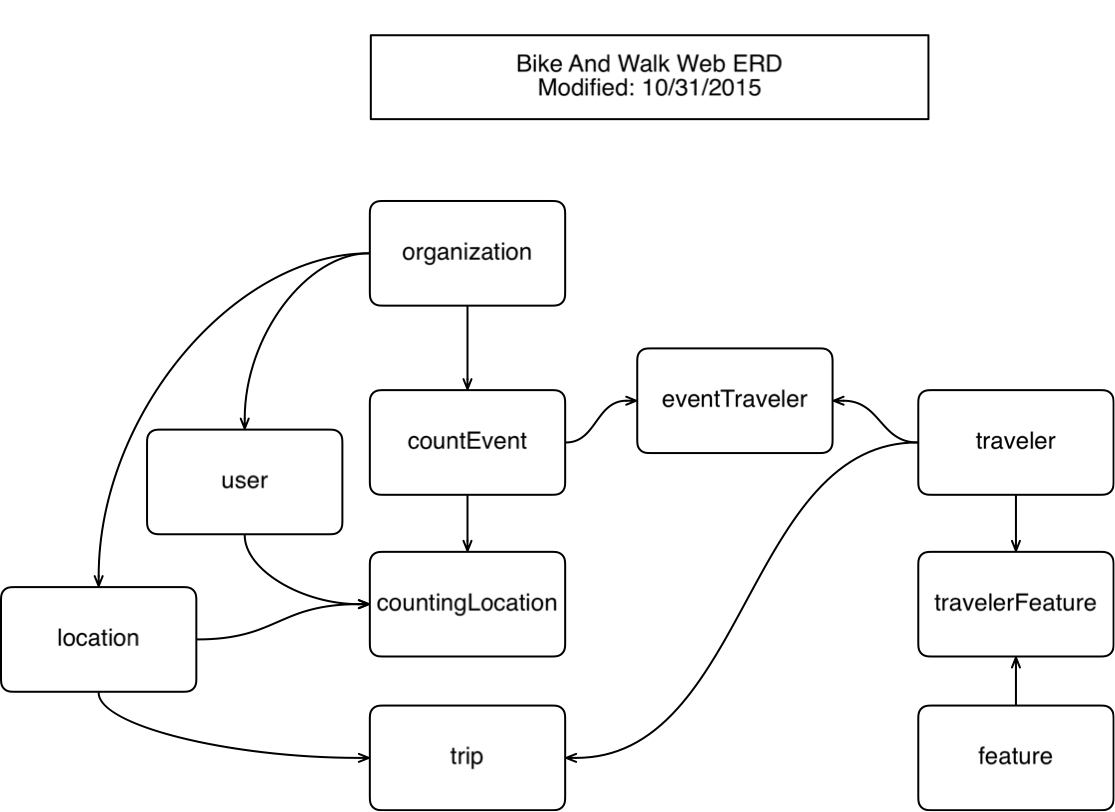
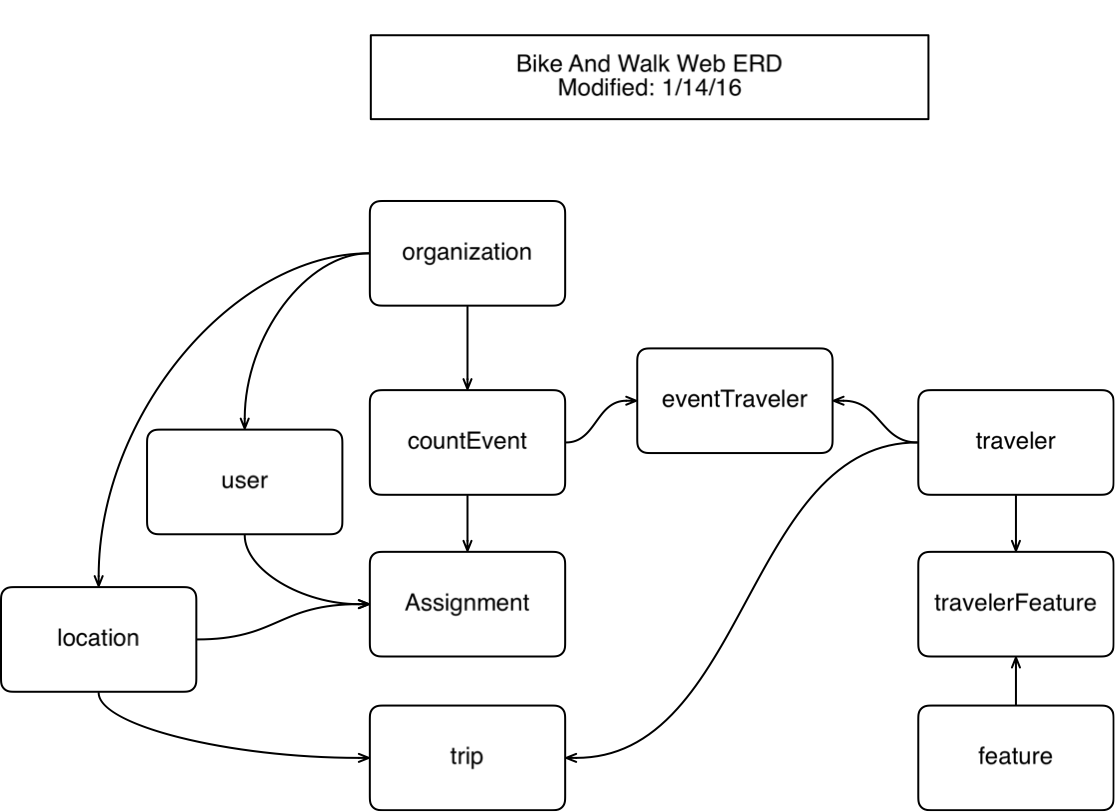
update docs and base.php

Changed region(s): [[0.3354, 0.7081, 0.5184, 0.7697], [0.4879, 0.0924, 0.7013, 0.1232]]

diff --git a/templates/base.php b/templates/base.php
@@ -20,6 +20,7 @@ $serverURI = $_SERVER['REQUEST_URI'];
 if (substr($serverURI,strlen($serverURI)-1) != '/' ) {$serverURI = $serverURI . '/';}
 $bits = explode("/", $serverURI);
 $localDir = $bits[count($bits)-2];
+
 if ($localDir=="") {$localDir = "arandomstring";} ## not sure how the file system will handle an empty file name
 
 ## Get the page content -- adding elements here will add divs to html scaffold
@@ -70,16 +71,18 @@ foreach($htmlContainers as $baseName => $x_value){
 		<script src="//ajax.googleapis.com/ajax/libs/jquery/1.11.2/jquery.min.js"></script>
 		<script type="text/javascript" src="/js/common.js" ></script>
 		<?php
-		    if(file_exists($_SERVER['DOCUMENT_ROOT']."/".$localDir."/".$localDir.'.js')){
-		    echo('<script type="text/javascript" src="'.$localDir.'.js" ></script>');
+		    $js = $serverURI.$localDir.'.js';
+		    if(file_exists(substr($_SERVER['DOCUMENT_ROOT'],0,-1).$js)){
+		    echo('<script type="text/javascript" src="'.$js.'" ></script>');
 		    }
 		?>
 		<?php echo($extraJS);?>
 		
 		<link rel="stylesheet" href="/css/default.css" type="text/css" media="all" >
 		<?php
-		    if(file_exists($_SERVER['DOCUMENT_ROOT']."/".$localDir."/".$localDir.'.css')){
-		    echo('<link rel="stylesheet" href="'.$localDir.'.css" type="text/css" media="all" >');
+		    $css = $serverURI.$localDir.'.css';
+		    if(file_exists(substr($_SERVER['DOCUMENT_ROOT'],0,-1).$css)){
+		    echo('<link rel="stylesheet" href="'.$css.'" type="text/css" media="all" >');
 		    }
 		?>
 		<?php echo($extraCSS);?>

diff --git a/contact/config.php b/contact/config.php
@@ -1,0 +1,39 @@
+
+<?php 
+// Set the path to global settings 
+//$site['config_library'] = $_SERVER['DOCUMENT_ROOT'].'../lib'; // this fails on some versions of php?
+$site['config_library'] = '/Users/bleddy/Sites/lib'; // use absolute path to be sure...
+$site['config_global_settings'] = $site['config_library'].'/config.php'; // Inside the config_library dir
+$site['mailer_class'] = $site['config_library'].'/MailClass.inc'; // Inside the config_library dir
+
+// get system wide settings 
+if(file_exists($site['config_library'])) {
+    // path is bad
+} else {
+    throw(new Exception("Global Mail Library directory do not exist"));
+}
+if(file_exists($site['config_global_settings'])) {
+    require_once($site['config_global_settings']);
+} else {
+    throw(new Exception("Global Mail Configuration Files do not exist"));
+}
+if(file_exists($site['mailer_class'])) {
+    // Grab the FreakMailer class 
+    require_once($site['mailer_class']); 
+} else {
+    throw(new Exception("Mailer Class Files do not exist"));
+}
+
+// Configuration settings for My Site 
+
+// set the default time zone
+date_default_timezone_set('America/Los_Angeles');
+
+// override or extend as needed
+$site['from_name'] = 'Bike and Walk'; // from email name 
+$site['from_email'] = 'info@bikeandwalk.org'; // from email address 
+
+
+//echo "site config";
+
+?>

diff --git a/docs/data/index.php b/docs/data/index.php
@@ -4,7 +4,7 @@ $pageTitle = 'Bike And Walk Data Dictionary';
 
 ## Add items to the header if needed
 
-$extraCSS = '<link rel="stylesheet" href="data-style.css" type="text/css" media="all" >';
+#$extraCSS = '<link rel="stylesheet" href="data.css" type="text/css" media="all" >';
 #$extraHeaders = '';
 #$extraJS = '';
 

diff --git a/docs/data/data.md b/docs/data/data.md
@@ -3,71 +3,11 @@
 ##Entity Relationship Diagram
 ![erd.png](erd.png)
 
-
-<div style="display:none" >
-<table class="dataTable" >
-	<tr>
-		<th colspan="2">TableName</th>
-	</tr>
-	<tr>
-		<td class="tableDesc" colspan="2">TableDescription</td>
-	</tr>
-	<tr>
-		<td class="fieldName">FieldName</td>
-		<td class="fieldDesc">FieldDesc</td>
-	</tr>
-	<tr>
-		<td class="fieldName">FieldName</td>
-		<td class="fieldDesc">FieldDesc</td>
-	</tr>
-	<tr>
-		<td class="fieldName">FieldName</td>
-		<td class="fieldDesc">FieldDesc</td>
-	</tr>
-	<tr>
-		<td class="fieldName">FieldName</td>
-		<td class="fieldDesc">FieldDesc</td>
-	</tr>
-	<tr>
-		<td class="fieldName">FieldName</td>
-		<td class="fieldDesc">FieldDesc</td>
-	</tr>
-	<tr>
-		<td class="fieldName">FieldName</td>
-		<td class="fieldDesc">FieldDesc</td>
-	</tr>
-	<tr>
-		<td class="fieldName">FieldName</td>
-		<td class="fieldDesc">FieldDesc</td>
-	</tr>
-	<tr>
-		<td class="fieldName">FieldName</td>
-		<td class="fieldDesc">FieldDesc</td>
-	</tr>
-	<tr>
-		<td class="fieldName">FieldName</td>
-		<td class="fieldDesc">FieldDesc</td>
-	</tr>
-	<tr>
-		<td class="fieldName">FieldName</td>
-		<td class="fieldDesc">FieldDesc</td>
-	</tr>
-	<tr>
-		<td class="fieldName">FieldName</td>
-		<td class="fieldDesc">FieldDesc</td>
-	</tr>
-	<tr>
-		<td class="fieldName">FieldName</td>
-		<td class="fieldDesc">FieldDesc</td>
-	</tr>
-</table>
-</div>
-
 ##Table Definitions
 
-_Updated Dec 31, 2015_
+_Updated Jan 16, 2016_
 
-Primary keys have been omitted for simplicity here. A numeric key field named "ID" may be assumed for each table.
+Primary keys have been omitted for simplicity here. A numeric key field named "ID" included in each table.
 
 <table class="dataTable" >
 	<tr>
@@ -149,6 +89,10 @@ Primary keys have been omitted for simplicity here. A numeric key field named "I
 		<td class="fieldDesc">The street that runs east and west at this location</td>
 	</tr>
 	<tr>
+		<td class="fieldName">locationType</td>
+		<td class="fieldDesc">Is this counting location at an "intersection" or is it "mid-block"?</td>
+	</tr>
+	<tr>
 		<td class="fieldName">city</td>
 		<td class="fieldDesc"></td>
 	</tr>
@@ -178,6 +122,10 @@ Primary keys have been omitted for simplicity here. A numeric key field named "I
 		<td class="tableDesc" colspan="2">This table represents traffic count being conducted by one Organization on a particular date and time. The count will be conducted at one or more locations.</td>
 	</tr>
 	<tr>
+		<td class="fieldName">title</td>
+		<td class="fieldDesc">A descriptive title for this event.</td>
+	</tr>
+	<tr>
 		<td class="fieldName">startDate</td>
 		<td class="fieldDesc">The starting date and time</td>
 	</tr>
@@ -200,22 +148,18 @@ Primary keys have been omitted for simplicity here. A numeric key field named "I
 </table>
 <table class="dataTable" >
 	<tr>
-		<th colspan="2">countingLocation</th>
+		<th colspan="2">assignment</th>
 	</tr>
 	<tr>
-		<td class="tableDesc" colspan="2">This table represents a single location where the count is being done as part of the related count event. </td>
+		<td class="tableDesc" colspan="2">(formerly named "countingLocation") This table represents a single location where the count is being done as part of the related count event. </td>
 	</tr>
 	<tr>
-		<td class="fieldName">countingLocationUID</td>
+		<td class="fieldName">assignmentUID</td>
 		<td class="fieldDesc">A unique identifier string that will be used to load the Count Location data into the client app. The goal is to create a hard to guess string to make it unlikely that someone other than the assigned person could guess the uri and be able to intentionally or accidentally enter bad data into the database.  </td>
 	</tr>
 	<tr>
 		<td class="fieldName">weather</td>
 		<td class="fieldDesc">A numerical code that describes the weather conditions at the time of the count. A non-null value here will also act as an indicater that the count is complete for this location. </td>
-	</tr>
-	<tr>
-		<td class="fieldName">countType</td>
-		<td class="fieldDesc">"intersection" or "screen line"</td>
 	</tr>
 	<tr>
 		<td class="fieldName">countEvent_ID</td>
@@ -249,7 +193,7 @@ Primary keys have been omitted for simplicity here. A numeric key field named "I
 	</tr>
 	<tr>
 		<td class="fieldName">seqNo</td>
-		<td class="fieldDesc">A sequence number that is unique to the countingLocaton. It represents a trip by one or more travelers and is used to undo trips that the user
+		<td class="fieldDesc">A sequence number used in conjunction with the assignment record ID. It represents a trip by one or more travelers and is used to undo trips that the user
 			has entered in error.</td>
 	</tr>
 	<tr>
@@ -263,6 +207,30 @@ Primary keys have been omitted for simplicity here. A numeric key field named "I
 	<tr>
 		<td class="fieldName">traveler_ID</td>
 		<td class="fieldDesc">Foreign key link to the Traveler record</td>
+	</tr>
+</table>
+
+<table class="dataTable" >
+	<tr>
+		<th colspan="2">provisionalTrip</th>
+	</tr>
+	<tr>
+		<td class="tableDesc" colspan="2">
+			<p>There may be a situation where the server receives a new trip record request which could not be validated for
+			some reason. Rather that reject the record, the system will record the trip here with some description of
+			the issue. </p>
+			<p>An administrator will need to manually review the record for correction and transfer to the trip table.</p>
+			<p>
+				This table is identical to the trip table with the addition of the field below.
+			</p>
+		</td>
+	</tr>
+	<tr>
+		<td class="tableDesc" colspan="2">... includes all fields form Trip table plus ...</td>
+	</tr>
+	<tr>
+		<td class="fieldName">issue</td>
+		<td class="fieldDesc">A message about the reason(s) the trip record didn't validate</td>
 	</tr>
 </table>
 

diff --git a/docs/api/api.md b/docs/api/api.md
@@ -1,11 +1,11 @@
-[Docs List](/docs/)
+_Updated Jan 16, 2016_
 
 #Pages & API end points
 
 ##Definitions
-*  **Count Event** - Describes a traffic count that is to be carried out on a particular date and time at one or more locations. 
-* **Location** - Describes the physical location where counts are to be conducted. 
-*   **Counting Location** - Describes a specific location, date and time where traffic is to be counted. Each location is associated with a single Count Event record and a single Location record. 
+* **Count Event** - Describes a date and time when traffic is to be counted at one or more locations. 
+* **Location** - Describes the physical location where counts are to be conducted. The same Location will usually be used during multiple Count Events.
+* **Assignment** - Represents a single User assigned to a Location on the date of a Count Event.
 
 ##HTML Pages
 Title: Count Page
@@ -17,10 +17,10 @@ Title: Count Page
 
 Title: Organization List
 
-*  Input: none
+*  Input: None
 *  Output: Display a list of Organization records with links to allow editing of the records.
 *  Errors: No Organization records found
-*  Description: Disply a list of organizations for the super-admin
+*  Description: Display a list of organizations for the super-admin
 
 Title: Organization Create / Edit
 
@@ -51,7 +51,7 @@ Title: Counting Event Create/Edit
 *   Errors: Org. not found, Event id not found
 *   Description: Provide a way for admin to create Count Event record. The Event recort has a relation to one Organization record. 
 
-Title: Count Location Create/Edit
+Title: Assignment Create/Edit
 
 *    Input: Count Event ID, Count location ID (for editing)
 *    Output: Display newly created Count location Id
@@ -77,30 +77,28 @@ Title: Count Results
 
 Title: Start Count
 
-*   Input: countingLocationUID
+*   Input: assignmentUID
 *   Output: Data object needed to populate the client count form. 
 *   Errors: ID not found, Count already completed, Count start period has expired
 *   Description: Send the data required by the client app to perform the count. The data includes the street names and Traveler definitions needed to begin a count.
 
 Title: Record trip
 
-*    Input: Unique Trip Identifier (location_ID + datetime string), Trip data
-*    Output: Status code; trip recorded, duplicate trip, count already closed, database not available (resend later)
+*    Input: a json formatted string: `Action:"add", tripCnt, tripDate, turnDirection, seqNo, location_ID, traveler_ID, countEvent_ID`
+*    Output: a json object: {"result":"success", "total": <total trips for this assignment >} The response is always success regardless.
 *    Errors: none
 *    Description: The client app sends data for one or more trips to server for storage. Based on the status returned the client app will delete or mark the trip(s) as recorded. Any trips that get a "database not available" response will be submitted again.  
 
+Title: Undo Trip
 
-Title: Delete Trip
-
-* Input: Unique Trip Identifier (location_ID + datetime string)
-* Output: Status code; ok, trip not found, counting location record closed, database not available (resend later)
+* Input: a json formatted string: `Action:"undo", Location_ID, countEvent_ID, seqNo, tripDate`
+* Output: a json object: {"result":"success", "total": <total trips for this assignment >} The response is always success regardless. Also, trips may only be deleted within one minute of the trip time.
 * Errors: none
 * Description: Used to "undo" a single trip by deleting the record. 
 
+Title: Total Trips
 
-Title: End Count
-
-*    Input: Count ID, Weather code 
-*    Output: Status code; ok, database not available (resend later)
-*    Errors: none
-*    Description: Setting the weather field of the countingLocation table to a non-null value indicates that the count for that location is complete. Alternately a countingLocation record is considered closed 24 hours after the end of the count. Once closed, no additional changes will be recorded for that countingLocation.
+* Input: a json formatted string: `Action:"total", Location_ID, countEvent_ID`
+* Output: a json object: {"result":"success", "total": <total trips for this assignment >} The response is always success regardless. Also, trips may only be deleted within one minute of the trip time.
+* Errors: none
+* Description: Used to get the current trip total for and assignment 
